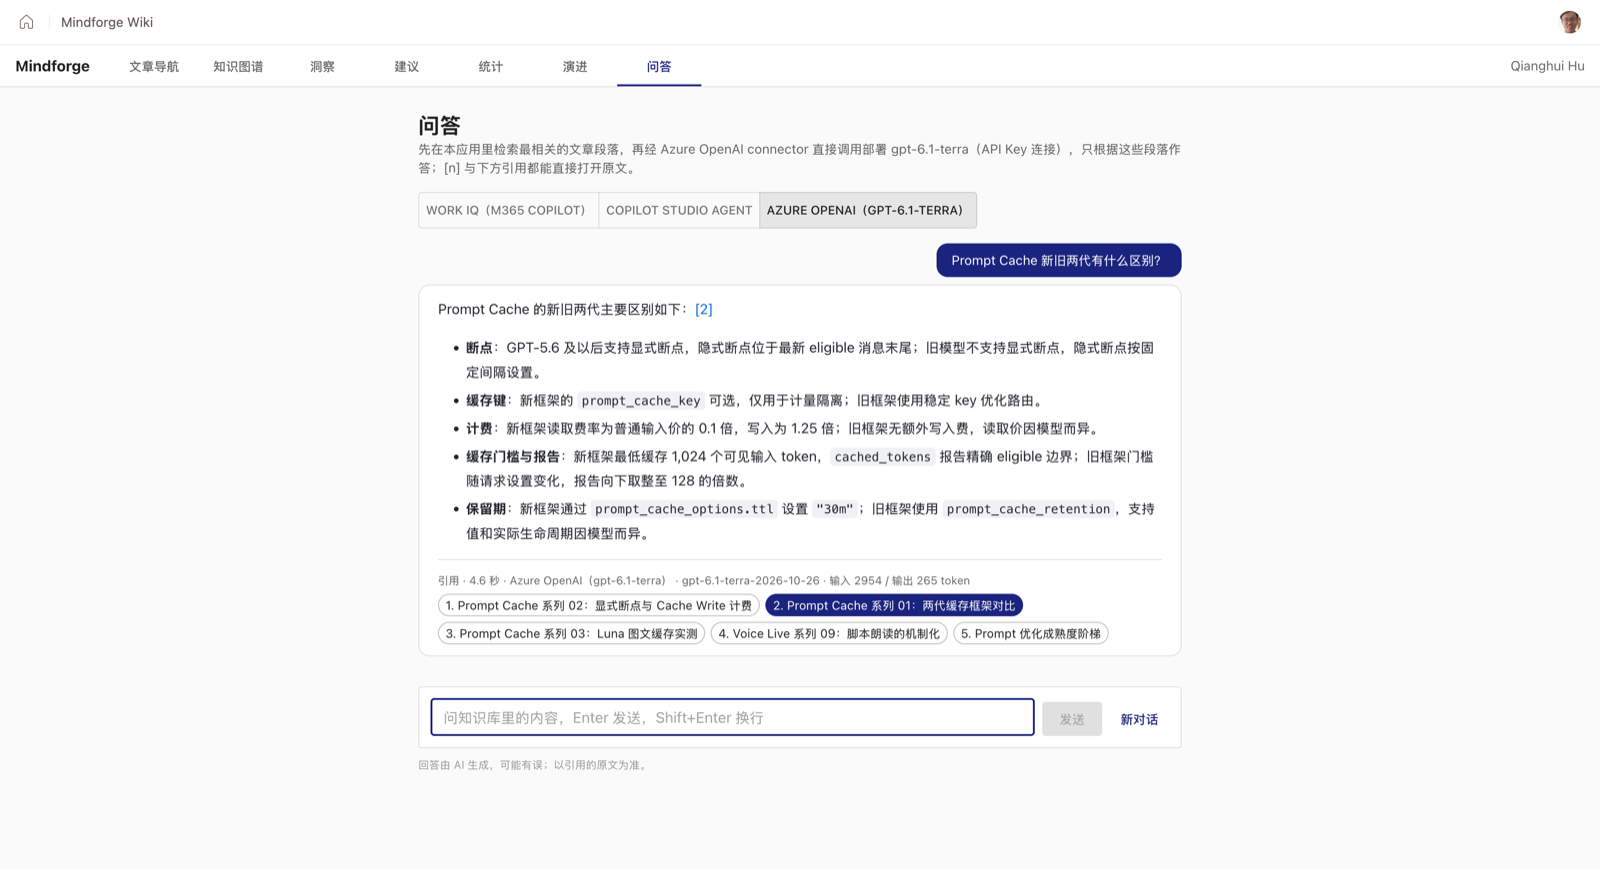
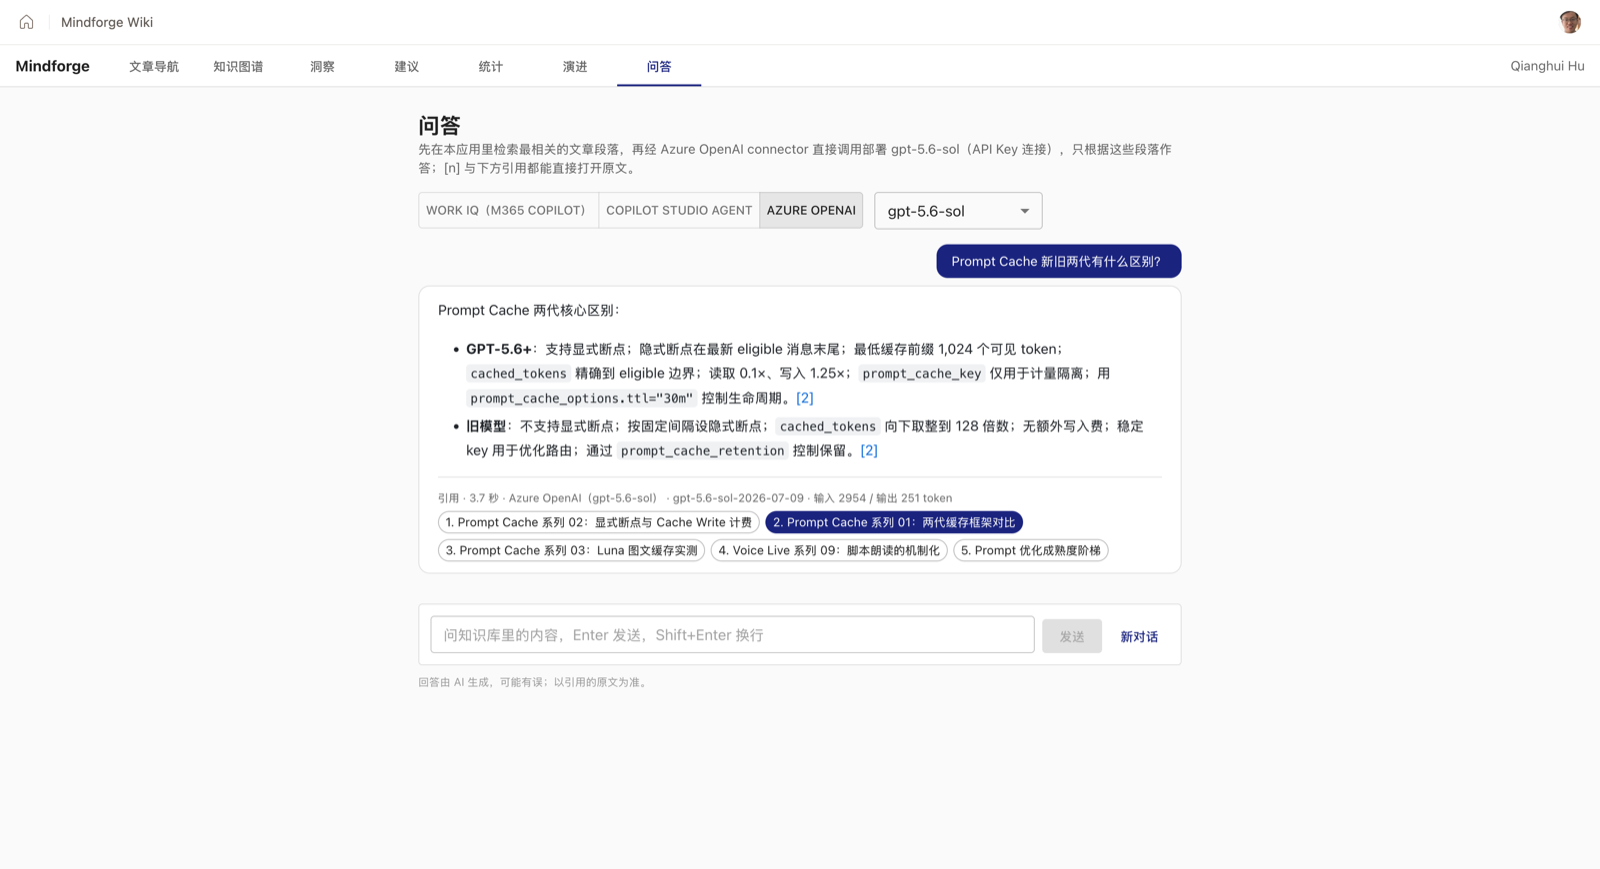
Let the Azure OpenAI backend pick a deployment
The deployment is a per-call parameter, so the ask page now offers the
eight chat deployments of the resource in a dropdown, remembers the
choice locally, and labels each answer with the deployment it used. All
eight were called through the same connection to confirm they work.

diff --git a/src/ask/AskPage.tsx b/src/ask/AskPage.tsx
@@ -12,11 +12,14 @@ import Alert from '@mui/material/Alert';
 import LinearProgress from '@mui/material/LinearProgress';
 import ToggleButton from '@mui/material/ToggleButton';
 import ToggleButtonGroup from '@mui/material/ToggleButtonGroup';
+import MenuItem from '@mui/material/MenuItem';
+import Select from '@mui/material/Select';
 import { docHash, useContentIndex } from '../docs/content';
 import { useUser } from '../platform/user';
 import { askCopilot } from '../platform/copilot';
 import { askAgent } from '../platform/agent';
-import { AOAI_DEPLOYMENT, askAzureOpenAI } from '../platform/aoai';
+import { AOAI_DEFAULT, AOAI_DEPLOYMENTS, askAzureOpenAI } from '../platform/aoai';
+import type { AoaiDeployment } from '../platform/aoai';
 import { retrieve } from './retrieve';
 import type { Source } from './retrieve';
 import { buildPrompt, parseAnswer } from './prompt';
@@ -26,11 +29,24 @@ type Backend = 'workiq' | 'agent' | 'aoai';
 const BACKENDS: Record<Backend, string> = {
   workiq: 'Work IQ（M365 Copilot）',
   agent: 'Copilot Studio agent',
-  aoai: `Azure OpenAI（${AOAI_DEPLOYMENT}）`,
+  aoai: 'Azure OpenAI',
 };
+
+// 选中的部署只记在本机，读写失败（隐私模式等）时退回默认
+const DEPLOYMENT_KEY = 'mf-ask:aoai-deployment';
+function savedDeployment(): AoaiDeployment {
+  try {
+    const v = localStorage.getItem(DEPLOYMENT_KEY);
+    return (AOAI_DEPLOYMENTS as readonly string[]).includes(v ?? '') ? (v as AoaiDeployment) : AOAI_DEFAULT;
+  } catch {
+    return AOAI_DEFAULT;
+  }
+}
 
 interface Message {
   backend: Backend;
+  /** backend 为 aoai 时用的部署 */
+  deployment?: AoaiDeployment;
   question: string;
   sources: Source[];
   answer?: string;
@@ -59,6 +75,15 @@ export default function AskPage({ initialQuestion, pinned }: { initialQuestion?:
   const [messages, setMessages] = useState<Message[]>([]);
   const [busy, setBusy] = useState(false);
   const [backend, setBackend] = useState<Backend>('workiq');
+  const [deployment, setDeployment] = useState<AoaiDeployment>(savedDeployment);
+  const chooseDeployment = (d: AoaiDeployment) => {
+    setDeployment(d);
+    try {
+      localStorage.setItem(DEPLOYMENT_KEY, d);
+    } catch {
+      // 不可写时只在本次会话生效
+    }
+  };
   const [slow, setSlow] = useState(false);
   const endRef = useRef<HTMLDivElement>(null);
   const pinnedTitle = pinned ? content?.byPath.get(pinned)?.title : undefined;
@@ -79,7 +104,7 @@ export default function AskPage({ initialQuestion, pinned }: { initialQuestion?:
     let sources: Source[] = [];
     const update = (patch: Partial<Message>) =>
       setMessages((ms) => ms.map((m, i) => (i === ms.length - 1 ? { ...m, ...patch } : m)));
-    setMessages((ms) => [...ms, { backend, question: q, sources }]);
+    setMessages((ms) => [...ms, { backend, deployment: backend === 'aoai' ? deployment : undefined, question: q, sources }]);
     try {
       sources = await retrieve(q, content, pinned);
       update({ sources });
@@ -89,9 +114,9 @@ export default function AskPage({ initialQuestion, pinned }: { initialQuestion?:
       let raw: string;
       let usage: string | undefined;
       if (backend === 'aoai') {
-        const r = await askAzureOpenAI(prompt);
+        const r = await askAzureOpenAI(prompt, deployment);
         raw = r.text;
-        usage = `${r.model ?? AOAI_DEPLOYMENT} · 输入 ${r.promptTokens ?? '?'} / 输出 ${r.completionTokens ?? '?'} token`;
+        usage = `${r.model ?? deployment} · 输入 ${r.promptTokens ?? '?'} / 输出 ${r.completionTokens ?? '?'} token`;
       } else {
         raw = backend === 'agent' ? await askAgent(prompt) : await askCopilot(prompt);
       }
@@ -115,7 +140,7 @@ export default function AskPage({ initialQuestion, pinned }: { initialQuestion?:
         <Typography variant="body2" sx={{ color: 'text.secondary', mb: 2 }}>
           先在本应用里检索最相关的文章段落，再
           {backend === 'aoai'
-            ? `经 Azure OpenAI connector 直接调用部署 ${AOAI_DEPLOYMENT}（API Key 连接），只根据这些段落作答`
+            ? `经 Azure OpenAI connector 直接调用部署 ${deployment}（API Key 连接），只根据这些段落作答`
             : backend === 'agent'
               ? '经 Work IQ 以你的身份交给 Copilot Studio agent「Mindforge Ask」（Standard harness，可选模型；资料里没有时会查公开网络并标明）'
               : '经 Work IQ 以你的身份交给 Microsoft 365 Copilot，只根据这些段落作答'}
@@ -124,6 +149,18 @@ export default function AskPage({ initialQuestion, pinned }: { initialQuestion?:
         <ToggleButtonGroup size="small" exclusive value={backend} onChange={(_, v: Backend | null) => v && setBackend(v)} sx={{ mb: 2 }}>
           {(Object.keys(BACKENDS) as Backend[]).map((b) => <ToggleButton key={b} value={b} disabled={busy}>{BACKENDS[b]}</ToggleButton>)}
         </ToggleButtonGroup>
+        {backend === 'aoai' && (
+          <Select
+            size="small"
+            value={deployment}
+            onChange={(e) => chooseDeployment(e.target.value as AoaiDeployment)}
+            disabled={busy}
+            sx={{ ml: 1.5, mb: 2, minWidth: 180, verticalAlign: 'top' }}
+            inputProps={{ 'aria-label': 'Azure OpenAI 部署' }}
+          >
+            {AOAI_DEPLOYMENTS.map((d) => <MenuItem key={d} value={d}>{d}</MenuItem>)}
+          </Select>
+        )}
         {offHost && (
           <Alert severity="info" sx={{ mb: 2 }}>
             问答要通过平台 Connector 调用，需在 Managed App 中运行（线上或 <code>ms app dev</code>）。这里仍可试检索：提交后会列出检索到的资料。
@@ -153,7 +190,7 @@ export default function AskPage({ initialQuestion, pinned }: { initialQuestion?:
                   <Box sx={{ py: 1 }}>
                     <LinearProgress sx={{ mb: 1 }} />
                     <Typography variant="caption" sx={{ color: 'text.secondary' }}>
-                      {m.sources.length ? `已检索到 ${m.sources.length} 篇资料，等待 ${BACKENDS[m.backend]} 回答…` : '检索中…'}
+                      {m.sources.length ? `已检索到 ${m.sources.length} 篇资料，等待 ${BACKENDS[m.backend]}${m.deployment ? `（${m.deployment}）` : ''} 回答…` : '检索中…'}
                       {slow && i === messages.length - 1 && ' 仍在处理，经 Work IQ 的回答通常需要 15–35 秒。'}
                     </Typography>
                   </Box>
@@ -167,7 +204,7 @@ export default function AskPage({ initialQuestion, pinned }: { initialQuestion?:
                   <Box sx={{ mt: 1.5, pt: 1, borderTop: 1, borderColor: 'divider' }}>
                     <Typography variant="caption" sx={{ color: 'text.secondary' }}>
                       {m.answer !== undefined && m.related?.length ? '引用' : '检索到的资料'}
-                      {m.ms !== undefined && ` · ${(m.ms / 1000).toFixed(1)} 秒`} · {BACKENDS[m.backend]}
+                      {m.ms !== undefined && ` · ${(m.ms / 1000).toFixed(1)} 秒`} · {BACKENDS[m.backend]}{m.deployment && `（${m.deployment}）`}
                       {m.usage && ` · ${m.usage}`}
                     </Typography>
                     <Box sx={{ display: 'flex', flexWrap: 'wrap', gap: 0.75, mt: 0.5 }}>

diff --git a/src/platform/aoai.ts b/src/platform/aoai.ts
@@ -2,9 +2,22 @@ import { AzureOpenAIService } from '../../generated/services/AzureOpenAIService'
 
 // Azure OpenAI connector（shared_azureopenai），连接用 API Key 认证（keyBasedAuth）。
 // Entra ID Integrated 在本环境创建连接时报 AADSTS50011（connector 的第一方应用没有登记回调地址），
-// 而且资源在另一个租户，见 docs/04 阶段 6。部署不在连接里选，每次调用时传 deployment-id。
+// 而且资源在另一个租户，见 docs/04 阶段 6。部署不在连接里选，每次调用时传 deployment-id，问答页可下拉切换。
 export const AOAI_RESOURCE = 'azure-open-ai-hu-sweden-centeral';
-export const AOAI_DEPLOYMENT = 'gpt-6.1-terra';
+// 资源 azure-open-ai-hu-sweden-centeral 里的对话部署（realtime / image / embedding 部署不适用）。
+// connector 没有"列出部署"的动作，新增部署时在这里补一行。
+export const AOAI_DEPLOYMENTS = [
+  'gpt-6.1-sol',
+  'gpt-6.1-terra',
+  'gpt-6-sol',
+  'gpt-6-luna',
+  'gpt-6-astra',
+  'gpt-5.6-sol',
+  'gpt-5.6-luna',
+  'gpt-5.6-terra',
+] as const;
+export type AoaiDeployment = (typeof AOAI_DEPLOYMENTS)[number];
+export const AOAI_DEFAULT: AoaiDeployment = 'gpt-6.1-terra';
 const API_VERSION = '2024-10-21';
 
 export interface AoaiAnswer {
@@ -14,10 +27,10 @@ export interface AoaiAnswer {
   completionTokens?: number;
 }
 
-export async function askAzureOpenAI(prompt: string): Promise<AoaiAnswer> {
+export async function askAzureOpenAI(prompt: string, deployment: AoaiDeployment = AOAI_DEFAULT): Promise<AoaiAnswer> {
   const res = await AzureOpenAIService.ChatCompletions_Create_2024Feb15Preview(
     { messages: [{ role: 'user', content: prompt }] },
-    AOAI_DEPLOYMENT,
+    deployment,
     API_VERSION,
   );
   if (!res.success) {
